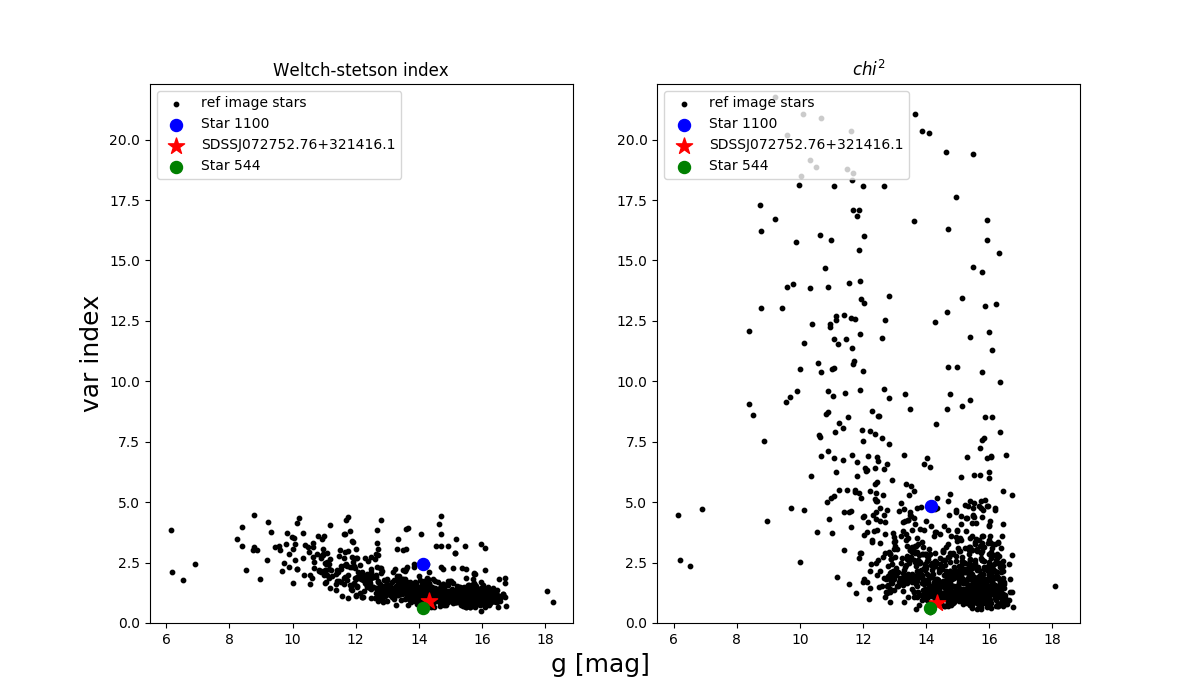
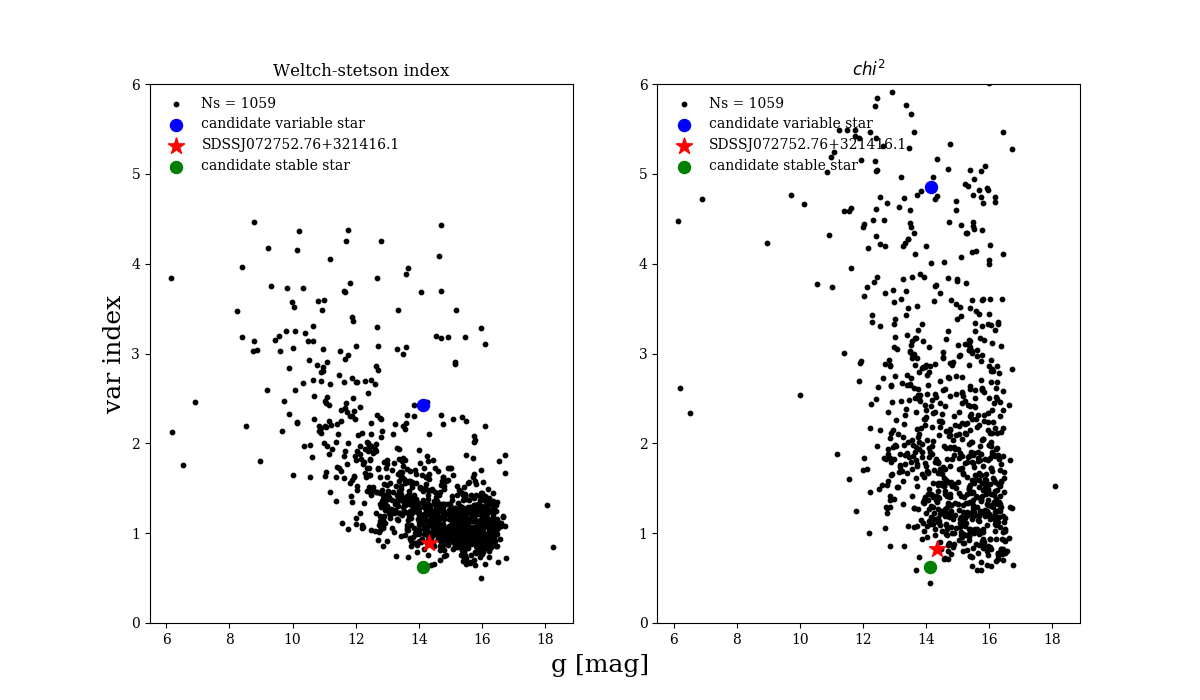
new variability index plots, updates to code

diff --git a/scripts/make_var_index_2_panel_plot.py b/scripts/make_var_index_2_panel_plot.py
@@ -1,18 +1,31 @@
 from astropy.io import ascii
 import glob
 import matplotlib.pyplot as plt
+import matplotlib
+import numpy as np
 import os
+
+matplotlib.rcParams['font.family'] = 'serif'
+matplotlib.rcParams['mathtext.fontset'] = 'custom'
+
 
 def make_var_index_2_panel_plot(targname, WD_tab, close_mag_tab, phot_tab, plot_output_dir, fits_dir, unstable_star_idx=-1, stable_star_idx=0):
 
 	WD_tab = ascii.read(WD_tab, format='csv')
 	phot_tab = ascii.read(phot_tab, format='csv')
 	close_mag_tab = ascii.read(close_mag_tab, format='csv')
+	close_mag_tab = close_mag_tab[close_mag_tab['chi2_nu'] <= 50]
 
 	stable_star_idx = close_mag_tab[stable_star_idx]['star_id']
 	unstable_star_idx = close_mag_tab[unstable_star_idx]['star_id']
 
 	ref_file = os.path.basename(glob.glob(fits_dir+'*.mag')[0].replace('.mag','.fits'))
+
+	#for when the WD wasn't detected in the reference image
+	if targname=='SDSSJ20372.169-051302.964':
+		ref_file='fl03201708270288e91.fits'
+	if targname=='SDSSJ210150.65-054550.9':
+		ref_file='fl15201707270183e91.fits'
 
 	#pick most unstable star
 	most_unstable_star_tab = phot_tab[phot_tab['star_id'] == unstable_star_idx]
@@ -20,6 +33,10 @@ def make_var_index_2_panel_plot(targname, WD_tab, close_mag_tab, phot_tab, plot_
 	#pick_most_stable_star
 	most_stable_star_tab = phot_tab[phot_tab['star_id'] == stable_star_idx] 
 
+	large_chi2_tab = phot_tab[phot_tab['chi2_nu'] > 25]
+	large_chi2_tab = large_chi2_tab['ra_ref', 'dec_ref', 'chi2_nu', 'var_index']
+	print('Writing {}.'.format(fits_dir+'plots_and_output/large_chi2_tab.csv'))
+	large_chi2_tab.write(fits_dir+'plots_and_output/{}_large_chi2_tab.csv'.format(targname), format='csv', overwrite=True)
 
 	f, (ax1, ax2) = plt.subplots(nrows=1, ncols=2, sharex=True, figsize=(12,7))
 	
@@ -31,25 +48,34 @@ def make_var_index_2_panel_plot(targname, WD_tab, close_mag_tab, phot_tab, plot_
 	ref_phot_output_tab = phot_tab[phot_tab['mag_'+ref_file.replace('.fits','')] != 99.9999][0:-25]
 
 	#make ylim the same for both
-	max_ws_index = max(ref_phot_output_tab['var_index'])
+	max_y = int(max(most_unstable_star_tab['var_index'], most_unstable_star_tab['chi2_nu'], WD_tab['var_index'], WD_tab['chi2_nu']) + 2)
 
-	ax1.set_ylim(0, max_ws_index*5.)
-	ax2.set_ylim(0, max_ws_index*5.)
-	
+	ax1.set_ylim(0, max_y)
+	ax2.set_ylim(0, max_y)
+
 	#scatter plot of variability index of all stars in reference image
-	ax1.scatter(ref_phot_output_tab['mag_'+ref_file.replace('.fits','')],ref_phot_output_tab['var_index'], c= 'k',s = 10,label = 'ref image stars')
+	ns = len(ref_phot_output_tab)
+	ax1.scatter(ref_phot_output_tab['mag_'+ref_file.replace('.fits','')],ref_phot_output_tab['var_index'], c= 'k',s = 10,label = 'Ns = {}'.format(ns))
 
 	#plot most unstable star
 	ax1.scatter(most_unstable_star_tab['mag_'+ref_file.replace('.fits','')], most_unstable_star_tab['var_index'], \
-				c='b',s=75,label = 'Star ' + str(most_unstable_star_tab['star_id'][0]))
+				c='b', s=75, label = 'candidate variable star')
 
-	#plot WD
-	ax1.scatter(WD_tab['mag_'+ref_file.replace('.fits','')],WD_tab['var_index'],c='r',s=150,label = targname,marker='*')
+	##plot WD
+	#ax1.scatter(WD_tab['mag_'+ref_file.replace('.fits','')],WD_tab['var_index'],c='r',s=150,label = targname,marker='*')
+
+	#plot WD var index and it's average magnitude in all frames
+	filtered_WD_mags = np.array([WD_tab[x] for x in WD_tab.colnames if 'mag' in x])
+	filtered_WD_mags = filtered_WD_mags[filtered_WD_mags != 99.9999]
+	filtered_WD_errs = np.array([WD_tab[x] for x in WD_tab.colnames if 'err' in x])
+	filtered_WD_errs = filtered_WD_errs[filtered_WD_errs != 9.9999]
+	mean_WD_mag = np.average(filtered_WD_mags, weights=filtered_WD_errs)
+	ax1.scatter(mean_WD_mag, WD_tab['var_index'],c='r',s=150,label = targname,marker='*')
 
 	#plot most stable star
-	ax1.scatter(most_stable_star_tab['mag_'+ref_file.replace('.fits','')],most_stable_star_tab['var_index'],c='g',s=75,label = 'Star ' + str(most_stable_star_tab['star_id'][0]))
+	ax1.scatter(most_stable_star_tab['mag_'+ref_file.replace('.fits','')],most_stable_star_tab['var_index'], c='g', s=75, label = 'candidate stable star')
 	plt.gca().invert_xaxis()
-	ax1.legend(loc = 'upper left',prop={'size': 10})
+	ax1.legend(loc = 'upper left',prop={'size': 10}, frameon=False)
 	ax1.set_title('Weltch-stetson index')
 
 
@@ -57,29 +83,30 @@ def make_var_index_2_panel_plot(targname, WD_tab, close_mag_tab, phot_tab, plot_
 
 	#now sort by chi2_nu
 	phot_tab.sort('chi2_nu')
-	ref_phot_output_tab = phot_tab[phot_tab['mag_'+ref_file.replace('.fits','')] != 99.9999][0:-25]
+	ref_phot_output_tab = phot_tab[phot_tab['mag_'+ref_file.replace('.fits','')] != 99.9999] [0:-25]
 
 	#scatter plot of chi2_nu of all stars in reference image
-	ax2.scatter(ref_phot_output_tab['mag_'+ref_file.replace('.fits','')],ref_phot_output_tab['chi2_nu'], c= 'k',s = 10,label = 'ref image stars')
+	ax2.scatter(ref_phot_output_tab['mag_'+ref_file.replace('.fits','')],ref_phot_output_tab['chi2_nu'], c='k',s = 10, label = 'Ns = {}'.format(ns))
 
 	#plot most unstable star
 	ax2.scatter(most_unstable_star_tab['mag_'+ref_file.replace('.fits','')], most_unstable_star_tab['chi2_nu'], \
-				c='b',s=75,label = 'Star ' + str(most_unstable_star_tab['star_id'][0]))
+				c='b', s=75, label = 'candidate variable star')
 
 	#plot WD
-	ax2.scatter(WD_tab['mag_'+ref_file.replace('.fits','')],WD_tab['chi2_nu'],c='r',s=150,label = targname,marker='*')
+	ax2.scatter(WD_tab['mag_'+ref_file.replace('.fits','')],WD_tab['chi2_nu'], c='r', s=150, label=targname,marker='*')
 
 	#plot most stable star
-	ax2.scatter(most_stable_star_tab['mag_'+ref_file.replace('.fits','')],most_stable_star_tab['var_index'],c='g',s=75,label = 'Star ' + str(most_stable_star_tab['star_id'][0]))
+	ax2.scatter(most_stable_star_tab['mag_'+ref_file.replace('.fits','')],most_stable_star_tab['var_index'], c='g', s=75, label='candidate stable star')
 
 	f.text(0.5, 0.04, 'g [mag]', ha='center', fontsize=18)
 	ax1.set_ylabel('var index', fontsize = 18)
 	plt.gca().invert_xaxis()
-	ax2.legend(loc = 'upper left',prop={'size': 10})
+	ax2.legend(loc = 'upper left', prop={'size': 10}, frameon=False)
 	ax2.set_title(r'$chi^2$')
 
 	print('Saving {}.'.format(plot_output_dir+'{}_var_idx_plot.png'.format(targname)))
 	plt.savefig(plot_output_dir+'{}_var_idx_plot.png'.format(targname))
+	plt.show()
 	plt.close()
 
 if __name__ == '__main__':

diff --git a/scripts/make_lightcurve_plot.py b/scripts/make_lightcurve_plot.py
@@ -2,7 +2,8 @@ from astropy.io import ascii
 from plotting_helper_functions import *
 import matplotlib.pyplot as plt
 # change default font for all plot text to LaTeX font; also change font size
-plt.rcParams['font.family'] = 'Times New Roman'
+plt.rcParams['font.family'] = 'serif'
+plt.rcParams['mathtext.fontset'] = 'custom'
 plt.rcParams['xtick.labelsize']=20
 plt.rcParams['ytick.labelsize']=20
 
@@ -30,10 +31,10 @@ def make_lightcurve_plot(WD_tab, stable_star_tab, obs_info_tab, plot_output_dir,
 				all_difs.append(stable_star_tab[col][i] - star_id_means[i])
 	std_all_stable = np.std(all_difs)
 
-	comparison_star_plot_label = r'stable comparison stars ({} $<$ var. index $<$ {}), $\sigma$ = {}'.\
+	comparison_star_plot_label = r'stable comparison stars ({} $<$ var. index $<$ {}), $\sigma$={}'.\
 								format(str(min(stable_star_tab['var_index'])),\
 								str(max(stable_star_tab['var_index'])),\
-								str(round(std_all_stable, 4)))
+								str(round(std_all_stable, 3)))
 
 	plt.figure(figsize = (20,10))
 
@@ -44,7 +45,7 @@ def make_lightcurve_plot(WD_tab, stable_star_tab, obs_info_tab, plot_output_dir,
 
 	filtered_mags = np.array([WD_tab[x] for x in WD_tab.colnames if 'mag_' in x and WD_tab[x] != 99.9999])
 	WD_std_0 = np.std(filtered_mags-WD_mean_mag)
-	WD_label =	r'{}, var. index = {}, $\sigma$	= {}'.format(targname,str(WD_tab['var_index'][0]),str(np.round(WD_std_0, 4)))
+	WD_label =	r'{}, var. index={}, $\sigma$={}'.format(targname,str(WD_tab['var_index'][0]),str(np.round(WD_std_0, 3)))
 
 	if weighted==True:
 		WD_mean_mag = WD_weighted_mean_mag
@@ -64,12 +65,13 @@ def make_lightcurve_plot(WD_tab, stable_star_tab, obs_info_tab, plot_output_dir,
 			plt.errorbar(WD_hjd, WD_mag, yerr = WD_err, label = None, c= 'k')
 			plt.scatter(WD_hjd, WD_mag,s = 155, marker = 'x', c='k', zorder = 3, label = None)
 
-	plt.legend(loc='best', fontsize = 20)
+	plt.legend(loc='best', fontsize = 27, frameon=False)
 	plt.xlabel('HJD',fontsize = 30)
 	plt.ylabel(r'$\Delta$ mag', fontsize = 30)
 	plt.ylim(-0.1,0.1)
 
-	plt.savefig(plot_output_dir + 'new_lightcurve_{}.png'.format(targname))
+	plt.savefig(plot_output_dir + 'lightcurve_{}.png'.format(targname))
+	#plt.show()
 	print('saving {}'.format(plot_output_dir + 'lightcurve_{}'.format(targname)))
 
 if __name__ == '__main__':
@@ -81,13 +83,13 @@ if __name__ == '__main__':
 				 		'SDSSJ232941.330+001107.755','SDSSJ235144.29+375542.6','WD0554-165']
 
 
-		for targname in all_23_targs:
+		for targname in all_23_targs[0:1]:
 			print(targname)
-			WD_tab = '/Users/cshanahan/Desktop/clean_desktop/WD_project/redo_final_ver/23_northern_targets/psf_phot/{}/plots_and_output/WD_tab.csv'.format(targname)
-			stable_star_tab = '/Users/cshanahan/Desktop/clean_desktop/WD_project/redo_final_ver/23_northern_targets/psf_phot/{}/plots_and_output/stable_comparison_star_tab.csv'.format(targname)
-			obs_info_tab = '/Users/cshanahan/Desktop/clean_desktop/WD_project/redo_final_ver/23_northern_targets/psf_phot/{}/obs_info.csv'.format(targname)
-			plot_output_dir = '/Users/cshanahan/Desktop/clean_desktop/WD_project/output_for_paper/23_northern/lightcurve_plots/'
-			fits_dir = '/Users/cshanahan/Desktop/clean_desktop/WD_project/redo_final_ver/23_northern_targets/psf_phot/{}/'.format(targname)
+			WD_tab = '/Users/cshanahan/Desktop/white_dwarf_analysis_LCO/processed_data/23_northern_targets/psf_phot/{}/plots_and_output/WD_tab.csv'.format(targname)
+			stable_star_tab = '/Users/cshanahan/Desktop/white_dwarf_analysis_LCO/processed_data/23_northern_targets/psf_phot/{}/plots_and_output/stable_comparison_star_tab.csv'.format(targname)
+			obs_info_tab = '/Users/cshanahan/Desktop/white_dwarf_analysis_LCO/processed_data/23_northern_targets/psf_phot/{}/obs_info.csv'.format(targname)
+			plot_output_dir = '/Users/cshanahan/Desktop/white_dwarf_analysis_LCO/output_for_paper/23_northern/lightcurve_plots/'
+			fits_dir = '/Users/cshanahan/Desktop/white_dwarf_analysis_LCO/processed_data/23_northern_targets/psf_phot/{}/'.format(targname)
 
 
 			make_lightcurve_plot(WD_tab, stable_star_tab, obs_info_tab, plot_output_dir, fits_dir, targname, weighted=False)

diff --git a/scripts/choose_comparison_stars.py b/scripts/choose_comparison_stars.py
@@ -206,7 +206,7 @@ def main_choose_comparison_stars(targname, base_path, plot_output_dir,
 
 if __name__ == '__main__':
 
- 	targs = glob.glob('/Users/cshanahan/Desktop/clean_desktop/WD_project/redo_final_ver/23_northern_targets/psf_phot/*/')
+ 	targs = glob.glob('/Users/cshanahan/Desktop/white_dwarf_analysis_LCO/processed_data/23_northern_targets/psf_phot/SDSSJ131445*/')
 	# targs = glob.glob('/Users/cshanahan/Desktop/clean_desktop/WD_project/redo_final_ver/southern_targs/new_psf_phot/W*/')
 	# targs = targs + glob.glob('/Users/cshanahan/Desktop/clean_desktop/WD_project/redo_final_ver/southern_targs/new_psf_phot/S*/')
 	# targs = targs + glob.glob('/Users/cshanahan/Desktop/clean_desktop/WD_project/redo_final_ver/southern_targs/new_psf_phot/A*/')

diff --git a/scripts/LCO_photometry_pipeline.py b/scripts/LCO_photometry_pipeline.py
@@ -303,8 +303,8 @@ def main_run_LCO_photometry_pipeline(obj_dir, full_reset = False, rerun_daophot 
 if __name__ == '__main__':
 
 	#List of directories that contain data for processing. Should be sorted by object. 
-	dirs = glob.glob('/Users/cshanahan/Desktop/clean_desktop/WD_project/redo_final_ver/23_northern_targets/psf_phot/SDSSJ130234.43+101238.9')
+	dirs = glob.glob('/Users/cshanahan/Desktop/white_dwarf_analysis_LCO/processed_data/23_northern_targets/psf_phot/SDSSJ131445.050-031415.588')
 	
 	for dir in dirs:
-		main_run_LCO_photometry_pipeline(format_path(dir), full_reset = True, rerun_daophot = False)
+		main_run_LCO_photometry_pipeline(format_path(dir), full_reset = False, rerun_daophot = True)
 		

diff --git a/scripts/parse_output_files_to_photcat.py b/scripts/parse_output_files_to_photcat.py
@@ -69,6 +69,8 @@ def parse_output_files_to_photcat(targname, ref_file_path, mch_file_path, cor_fi
 
                 mean_mag_weighted = np.average(filtered_mags, weights = filtered_errs)
                 chi2_nu = np.sum((1/filtered_errs**2) * ((filtered_mags - mean_mag_weighted)**2))/(len(filtered_mags)-1)
+                if chi2_nu > 100:
+                    print(chi2_nu, var_indicies[k], filtered_mags, filtered_errs)
                 
                 ff.write('{0},{1},{2},{3},{4},{5},{6},{7},{8},'.format(star_ids[k],var_indicies[k],str(chi2_nu),star_xs[k],star_ys[k],star_ras[k],stars_dec[k],star_chis[k],star_sharps[k]))
                 ff.write(','.join(star_magss[k]))
